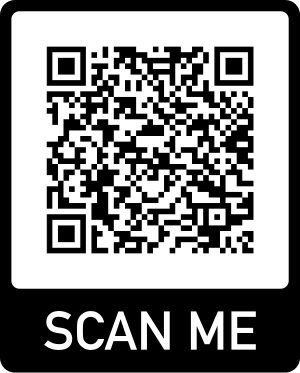
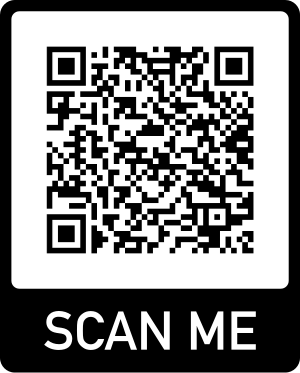
Update hymnchtv QRCode

Changed region(s): [[0.15, 0.2359, 0.39, 0.5898], [0.3, 0.6193, 0.36, 0.6783], [0.51, 0.4718, 0.57, 0.5013]]

diff --git a/hymnchtv/faq.html b/hymnchtv/faq.html
@@ -148,8 +148,8 @@ ul li {
      i.e. <a href="https://github.com/cmeng-git/hymnchtv/releases">https://github.com/cmeng-git/hymnchtv/releases</a>.<br />
      The lastest release at the time of this online help update is: </div>
    <div class='innerText'>
-     <li><a href="https://github.com/cmeng-git/hymnchtv/releases/download/2.5.0/hymnchtv-release.apk">
-     https://github.com/cmeng-git/hymnchtv/releases/download/2.5.0/hymnchtv-release.apk</a></li>
+     <li><a href="https://github.com/cmeng-git/hymnchtv/releases/download/2.5.1/hymnchtv-release.apk">
+     https://github.com/cmeng-git/hymnchtv/releases/download/2.5.1/hymnchtv-release.apk</a></li>
    </div>
    <div class='innerText'>Please note that the debug apk contains a different signature from the release apk.
      Android OS will prompt you to uninstall the existing app if any, before you can install the debug apk with a
